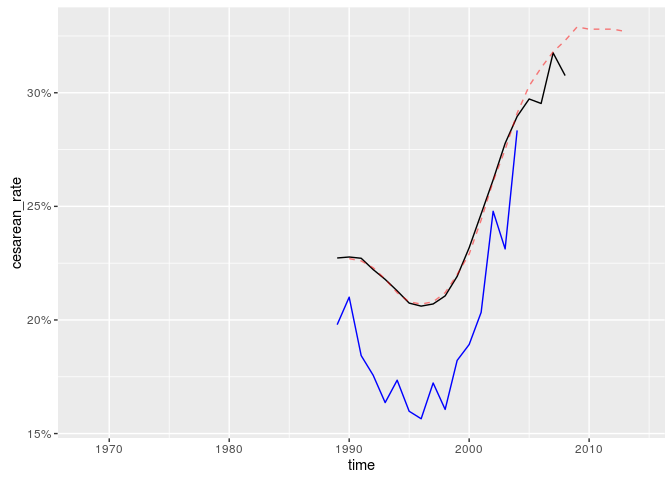
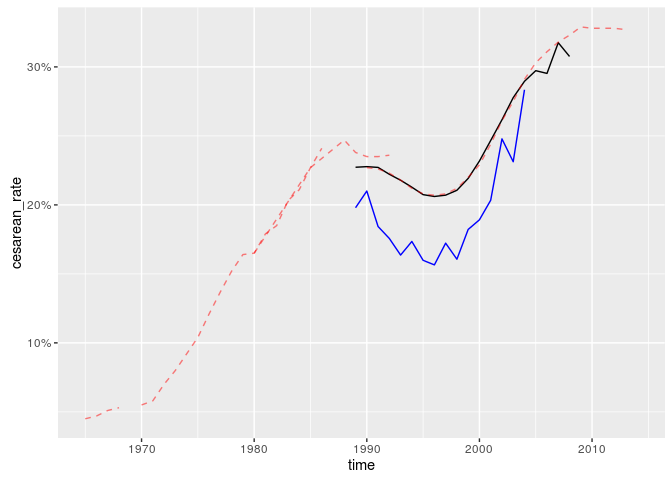
Adding more data sets

diff --git a/studies/CesareanTrends.md b/studies/CesareanTrends.md
@@ -28,6 +28,10 @@ ggplot(cs, aes(time, cesarean_rate)) +
     scale_y_continuous(label=scales::percent) +
     geom_line(data=cs_OR, aes(time, cesarean_rate), stat="identity", color="blue") +
     geom_line(data=CDC_cesarean_2013, aes(Year, TotalCesareanRate),
+                stat="identity", color="red", linetype=2, size=0.5, alpha=0.5) +
+    geom_line(data=HHS_cesarean_1989, aes(Year, AllAges),
+                stat="identity", color="red", linetype=2, size=0.5, alpha=0.5) +
+    geom_line(data=HHS_cesarean_1996, aes(Year, AllAges),
                 stat="identity", color="red", linetype=2, size=0.5, alpha=0.5)
 ```
 
@@ -40,3 +44,9 @@ ggplot(cs, aes(time, cesarean_rate)) +
 ```
 
 ![](CesareanTrends_files/figure-html/unnamed-chunk-1-1.png)<!-- -->
+
+
+
+
+
+
